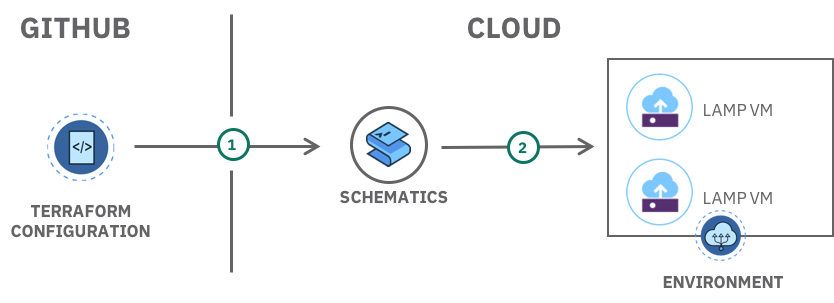
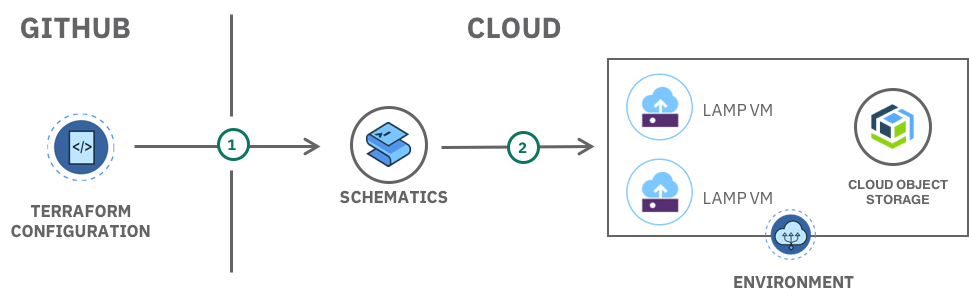
Add architecture diagram steps and update digram image

diff --git a/infrastructure-as-code.md b/infrastructure-as-code.md
@@ -1,7 +1,7 @@
 ---
 copyright:
   years: 2017
-lastupdated: "2017-11-23"
+lastupdated: "2017-11-27"
 ---
 
 {:shortdesc: .shortdesc}
@@ -15,7 +15,7 @@ lastupdated: "2017-11-23"
 
 IBM Cloud Schematics is a tool that uses Terraform to provision and manage infrastructure resources, Cloud Foundry applications, services, Kubernetes clusters and much more using code in a configuration file(s).
 
-In this tutorial, you will use a provided template in Schematics to provision a **L**inux virtual server, with **A**pache web server, **M**ySQL, and **P**HP server (LAMP stack) and Object Storage. You will then configure the template to scale the resources and tune the environment (memory, CPU and disk size). Finish by deleting all of the resources created by the configuration.
+In this tutorial, you will use a provided template in Schematics to provision a **L**inux virtual server, with **A**pache web server, **M**ySQL, and **P**HP server (LAMP stack). You will then configure the template to add Object Storage service and to scale the resources to tune the environment (memory, CPU and disk size). Finish by deleting all of the resources created by the configuration.
 
 ## Objectives
 
@@ -26,6 +26,9 @@ In this tutorial, you will use a provided template in Schematics to provision a 
 - Delete the environment
 
 ![Architecture diagram](images/solution10/IaC_architecture.png)
+
+1. Create or use an existing template code and pushes it to GitHub.
+2. IBM Cloud Schematics clone's GitHub repo and pulls all the template variables, then creates an environment. The environment holds all the configurations to provision a LAMP stack server and Cloud Object Storage service. The template code can be updated at any stage to scale the server resources. All can be done with code. 
 
 ## Before you begin
 
